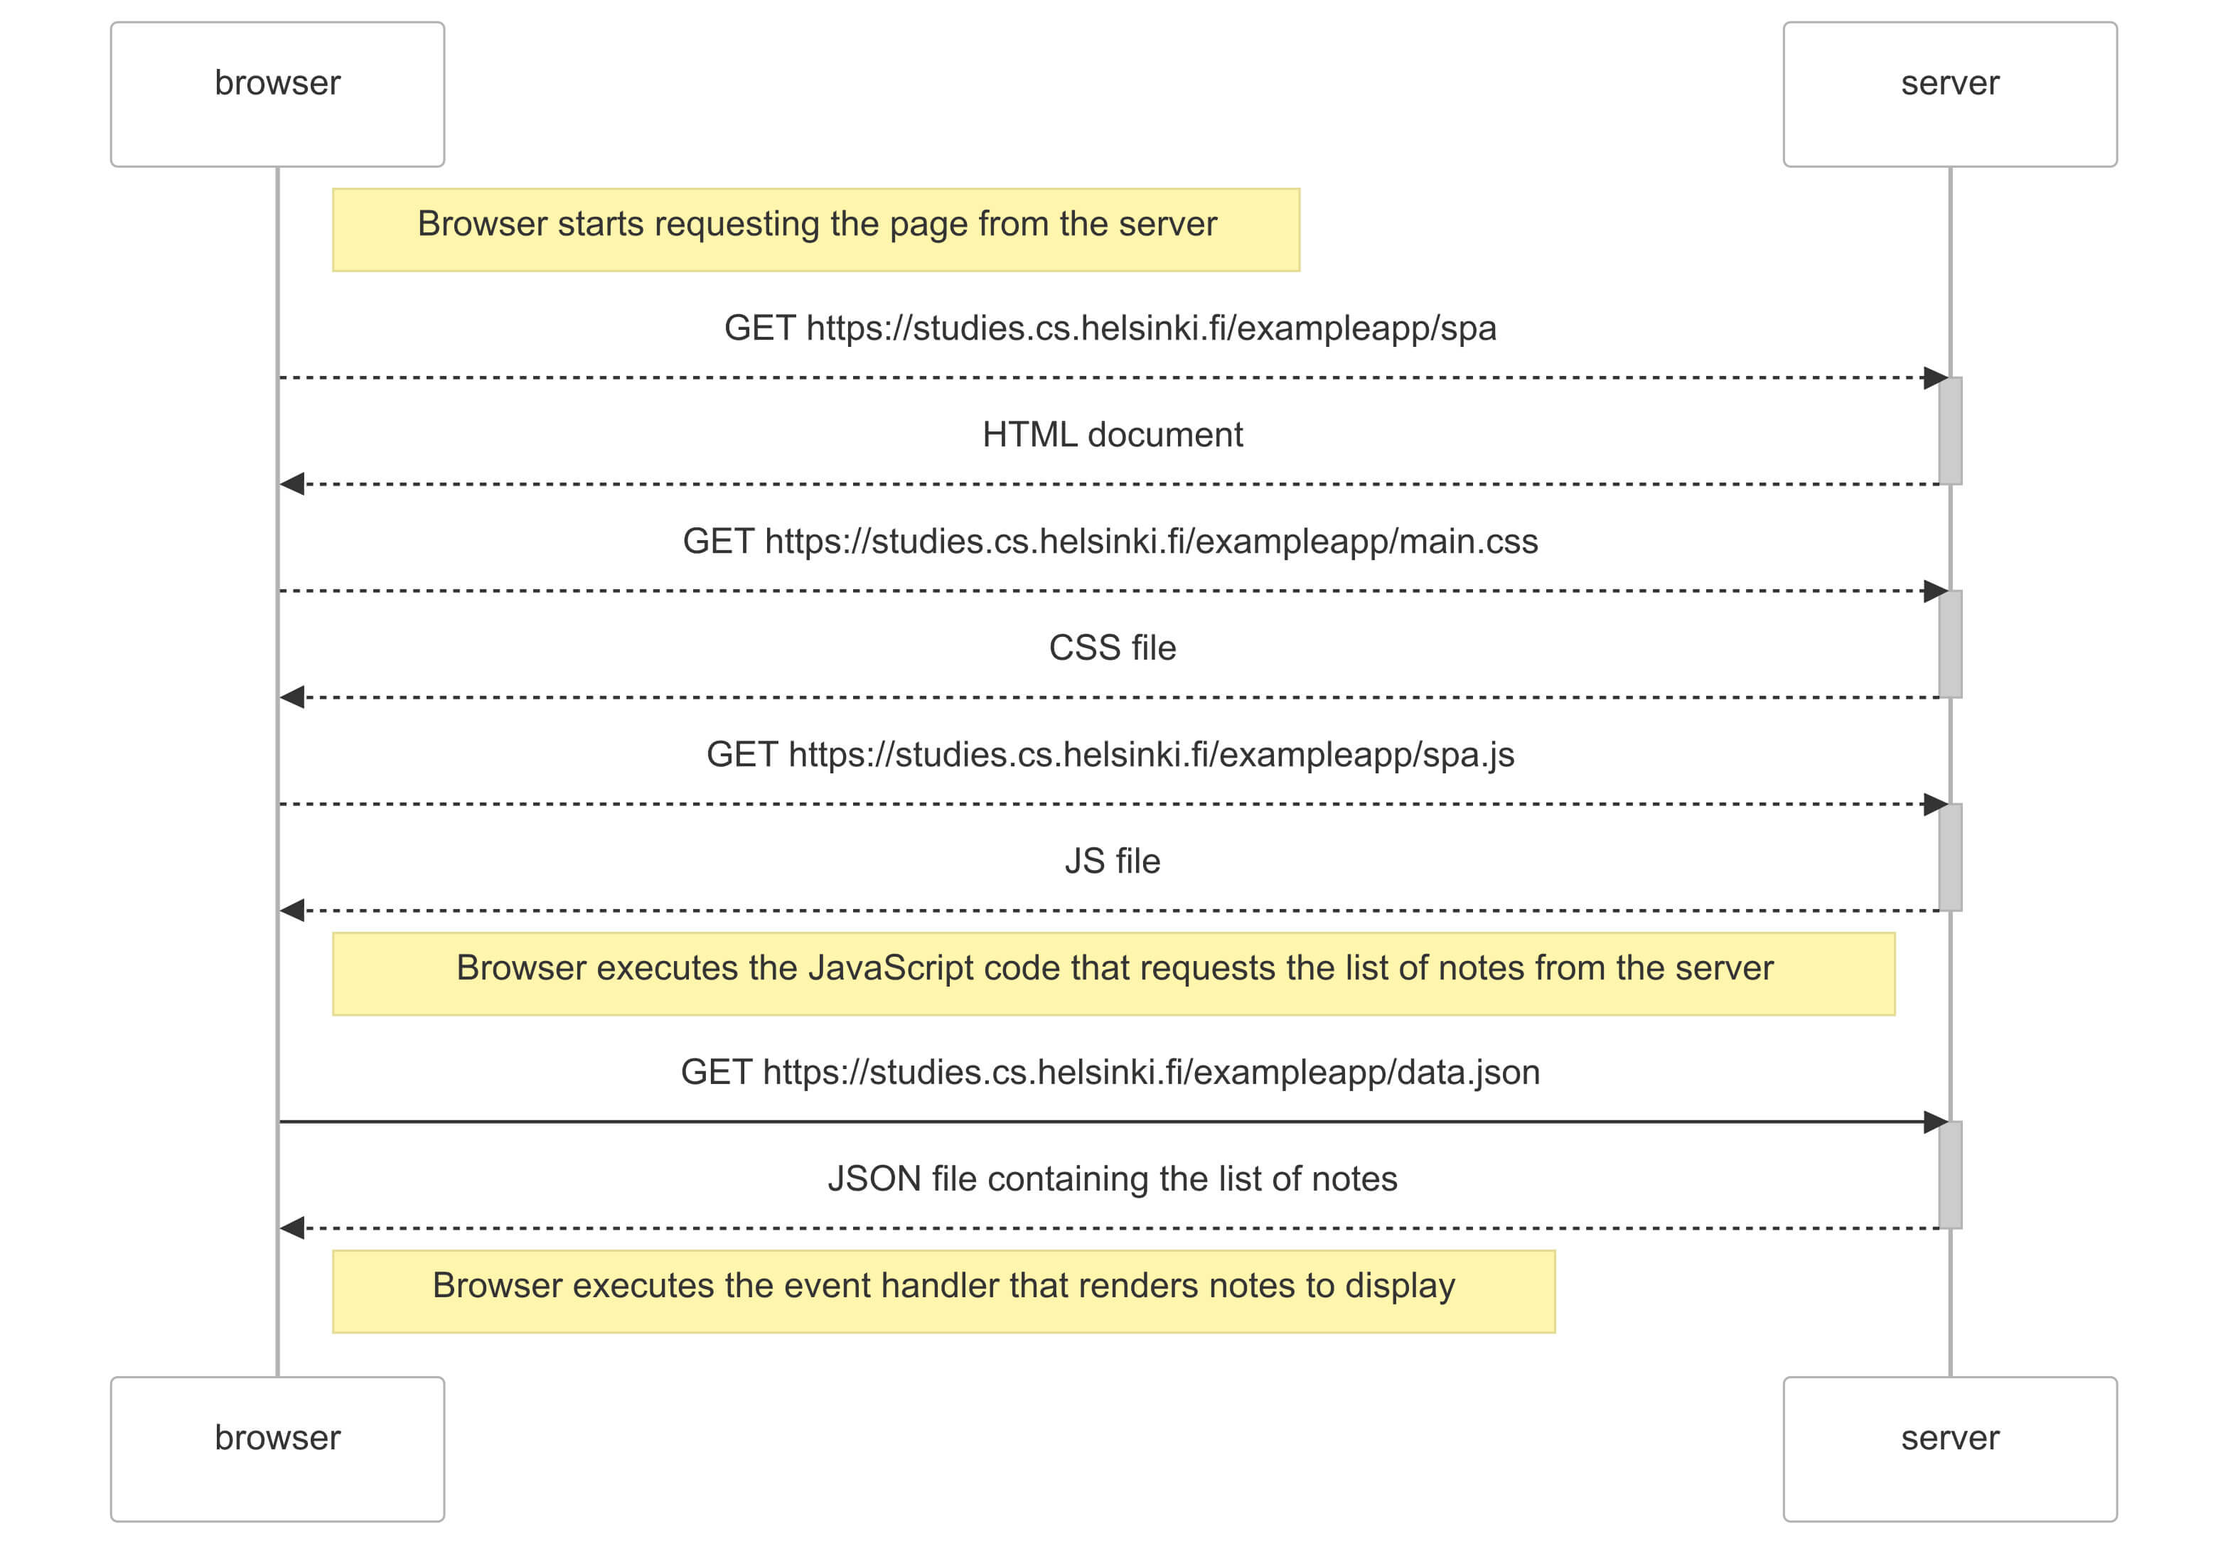
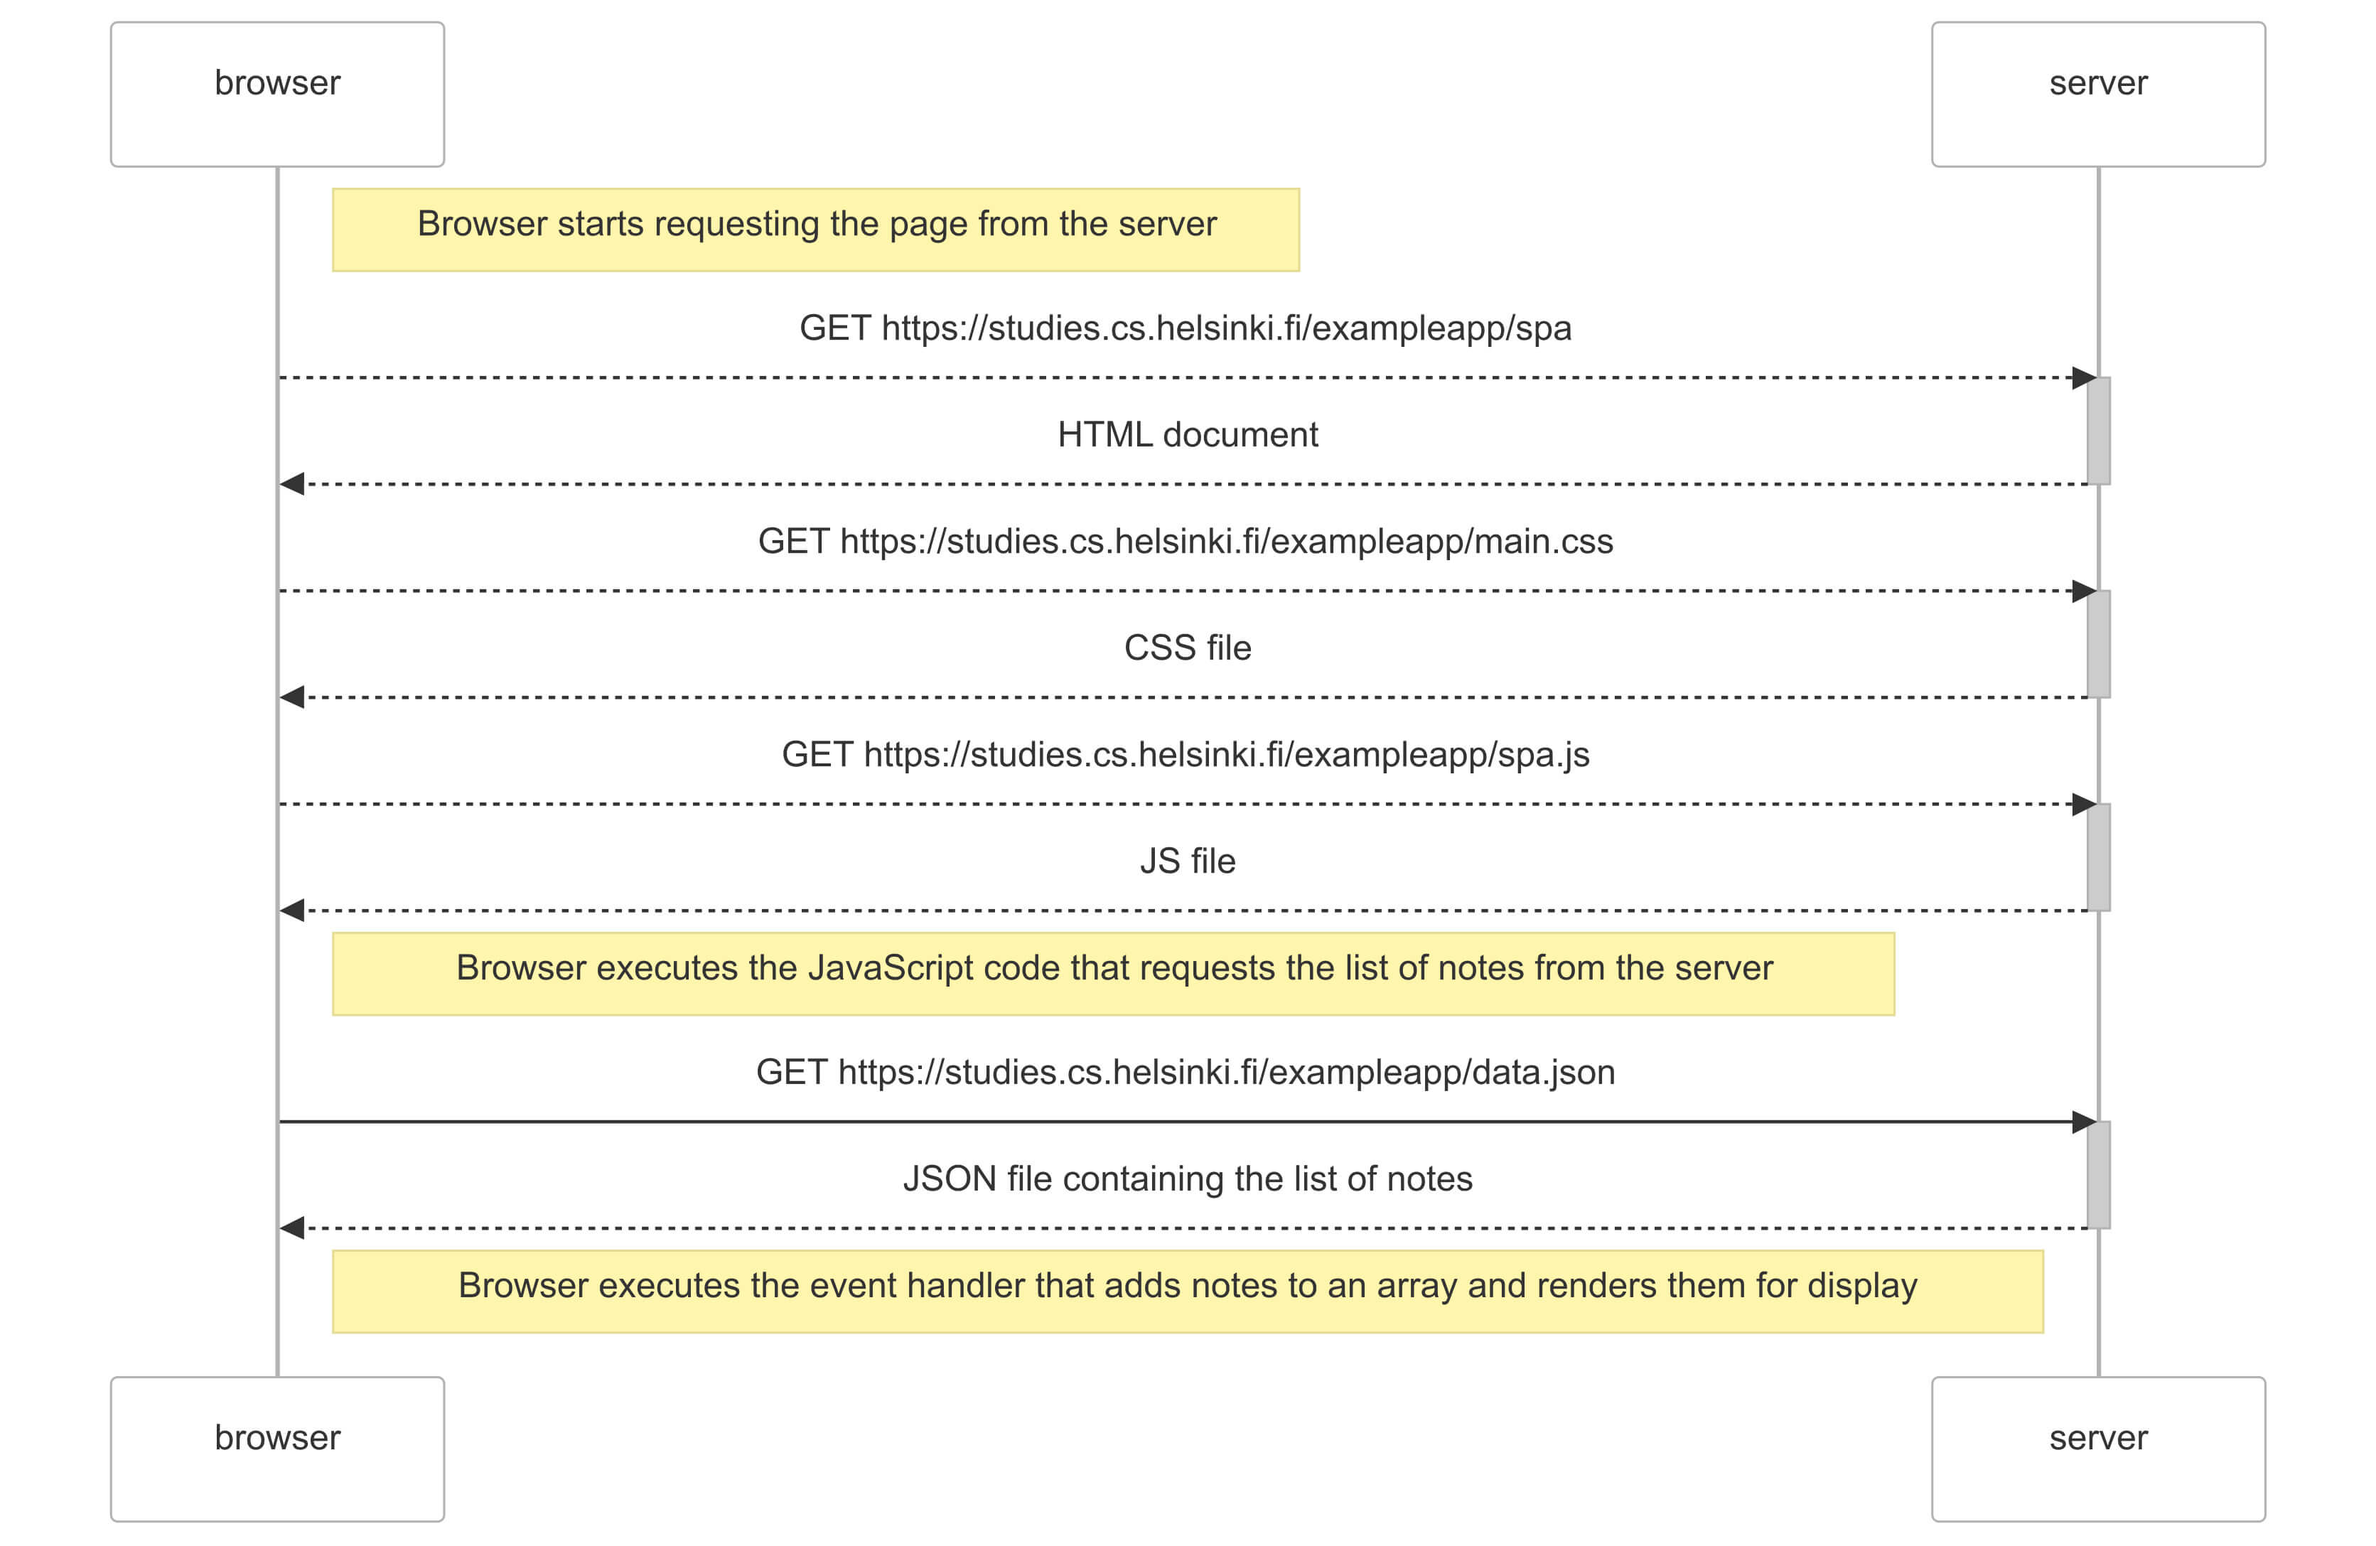
fix exercise 0.5

diff --git a/part0/0.5_SinglePageAppDiagram/singlePageAppDiagram.md b/part0/0.5_SinglePageAppDiagram/singlePageAppDiagram.md
@@ -1,4 +1,4 @@
-# 0.4: Single page app diagram
+# 0.5: Single page app diagram
 
 
 
@@ -32,7 +32,7 @@ sequenceDiagram
     server-->>browser: JSON file containing the list of notes
     deactivate server
 
-    Note right of browser: Browser executes the event handler that renders notes to display
+    Note right of browser: Browser executes the event handler that adds notes to an array and renders them for display
 
 ```
 
